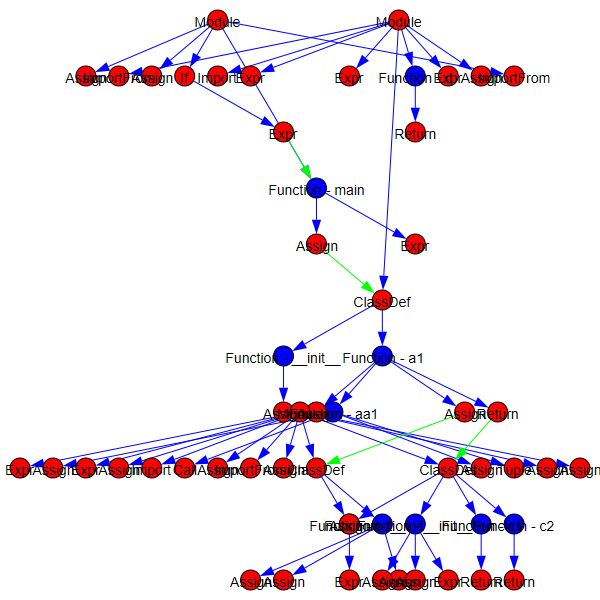
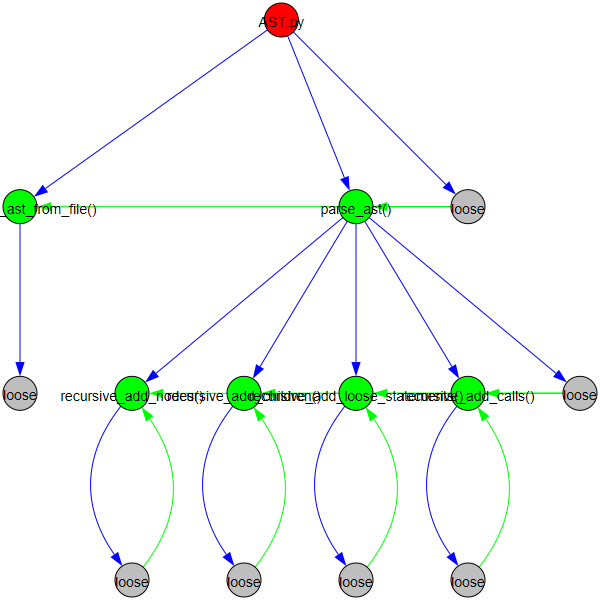
Add Recursive Functions

diff --git a/AST.py b/AST.py
@@ -1,80 +1,9 @@
 import os
 import ast
 import igraph
-from copy import copy 
 
-node_list = list()
+graph = igraph.Graph(directed=True)
 debugfile = open('debug.txt', 'w')
-
-# Redefines functions within the NodeVisitor class to print to file in specific format
-class NodePrinter(ast.NodeVisitor):
-    def __init__(self, output_file):
-        self.output_file = output_file
-
-    def generic_visit(self, node):
-        print('\n', file=self.output_file)
-        print('Type: ' + type(node).__name__, file=self.output_file)
-        print('Address: ' + str(id(node)), file=self.output_file)
-
-        dict_entry = {'Type':type(node).__name__, 'Address':str(id(node))}
-
-        if type(node).__name__ == "Module":
-            print('Location: ' + current_file, file=self.output_file)
-            dict_entry['Location'] = current_file
-
-        if hasattr(node, 'name'):
-            print('Name: ' + str(node.name), file=self.output_file)
-            dict_entry['Name'] = str(node.name)
-
-        if hasattr(node, 'body'):
-            print('Children: ', file=self.output_file)
-            temp_array = list()
-
-            for i in node.body:
-                print(str(id(i)), file=self.output_file)
-                temp_array.append(str(id(i)))
-
-            dict_entry['Children'] = temp_array
-
-        if hasattr(node, 'value') and hasattr(node.value, 'func') and hasattr(node.value.func, 'id'):
-            print('Function: ' + str(node.value.func.id), file=self.output_file)
-            dict_entry['Function'] = str(node.value.func.id)
-
-        if type(node).__name__ == "Expr":
-            if hasattr(node.value.func, "id"):
-                print('Calling: ', file=self.output_file)
-                print(str(node.value.func.id), file=self.output_file)  
-                dict_entry['Calling'] = [str(node.value.func.id)]
-            elif hasattr(node.value.func, "attr"):
-                dict_entry['Attr'] = str(node.value.func.attr)
-
-        if type(node).__name__ == "Import":
-            print('Names: ', file=self.output_file)
-            temp_array = list()
-
-            for i in node.names:
-                print(str(id(i)), file=self.output_file)
-                temp_array.append(str(id(i)))
-
-            dict_entry['Names'] = temp_array
-
-        if type(node).__name__ == "ImportFrom":
-            print('Module: ' + str(node.module), file=self.output_file)
-            dict_entry['Module'] = str(node.module)
-
-            print('Names: ', file=self.output_file)
-            temp_array = list()
-
-            for i in node.names:
-                print(str(id(i)), file=self.output_file)
-                temp_array.append(str(id(i)))
-
-            dict_entry['Names'] = temp_array
-
-        node_list.append(dict_entry)
-
-        super().generic_visit(node)
-
 
 # Opens up a file and parses into an AST object
 def generate_ast_from_file(filename):
@@ -86,186 +15,96 @@ def generate_ast_from_file(filename):
     ast_object = ast.parse(source_code)
     return ast_object
 
+def parse_ast(ast_node, location):
 
-# Opens file in write mode and then starts the AST traversal
-def save_ast(ast_object):
-    NodePrinter(debugfile).visit(ast_object)
+    def recursive_add_nodes(ast_node, location):
+        if str(type(ast_node)) == '<class \'ast.Module\'>':
+            graph.add_vertex(name=(location + '/' + str(type(ast_node))), label=location.split('\\')[-1], color='red')
+        if str(type(ast_node)) == '<class \'ast.FunctionDef\'>':
+            graph.add_vertex(name=(location + '/' + ast_node.name), label=(ast_node.name + '()'), color='green')
+        if str(type(ast_node)) == '<class \'ast.ClassDef\'>':
+            graph.add_vertex(name=(location + '/' + ast_node.name), label=(ast_node.name + '()'), color='yellow')
 
+        if hasattr(ast_node, 'body'):
+            for child in ast_node.body:
+                recursive_add_nodes(child, location)
 
-# Helper Function for tie_up_loose_statements() that combines 2 nodes calling list
-def combine_nodes(ID1, ID2):
-    # Finds specificed nodes
-    for node in node_list:
-        if node['Address'] == ID1:
-            node1 = node
-        elif node['Address'] == ID2:
-            node2 = node
-        
-    # Adds node2's list of calls to node1's calls and then deletes node2
-    if node1 and node2:
-        node1['Type'] = 'Loose Statements'
-        node2['Type'] = 'Loose Statements'
-        if 'Calling' in node1 and 'Calling' in node2:
-            node1['Calling'] += node2['Calling']
-        elif 'Calling' in node2:
-            node1['Calling'] = node2['Calling']
-        node_list.remove(node2)
+    def recursive_add_children(ast_node, location):
+        if hasattr(ast_node, 'body'):
+            for child in ast_node.body:
+                if hasattr(ast_node, 'name') and hasattr(child, 'name'):
+                    graph.add_edge((location + '/' + ast_node.name), (location + '/' + child.name), color='blue')
+                elif hasattr(child, 'name'):
+                    graph.add_edge((location + '/' + str(type(ast_node))), (location + '/' + child.name), color='blue')  
+                
+                recursive_add_children(child, location)
 
+    def recursive_add_loose_statements(ast_node, location):
+        if str(type(ast_node)) == '<class \'ast.FunctionDef\'>' or str(type(ast_node)) == '<class \'ast.ClassDef\'>' or str(type(ast_node)) == '<class \'ast.Module\'>':
+            for child in ast_node.body:
+                if str(type(child)) != '<class \'ast.FunctionDef\'>' or str(type(child)) != '<class \'ast.ClassDef\'>' or str(type(child)) != '<class \'ast.Module\'>':
+                    if str(type(ast_node)) == '<class \'ast.Module\'>':
+                        graph.add_vertex(name=(location + '/' + str(type(ast_node)) + 'loose'), label='loose', color='grey')
+                        graph.add_edge((location + '/' + str(type(ast_node))), (location + '/' + str(type(ast_node)) + 'loose'), color='blue')
+                    elif str(type(ast_node)) == '<class \'ast.FunctionDef\'>' or str(type(ast_node)) == '<class \'ast.ClassDef\'>':
+                        graph.add_vertex(name=(location + '/' + ast_node.name + 'loose'), label='loose', color='grey')
+                        graph.add_edge((location + '/' + ast_node.name), (location + '/' + ast_node.name + 'loose'), color='blue')
+                    break
+            
+            for child in ast_node.body:
+                recursive_add_loose_statements(child, location)
 
-# Modifies the node_list so that every node with Expr will have a Loose Statement instead
-def tie_up_loose_statements():
-    # Go through node_list looking for nodes with children
-    for node in node_list:
-        if 'Children' in node:
-            # Once a node with children is found collect the children that are Expr
-            loose_expressions = list()
-            for child in node['Children']:
-                if child[1] == 'Expr':
-                    loose_expressions.append(child)
-            # Once a node with children is found delete the children that are Expr (Have to do this in a seperate step since traversal gets mess up if deleting elements while traversing)
-            for child in reversed(node['Children']):
-                if child[1] == 'Expr':
-                    node['Children'].remove(child)
+    def recursive_add_calls(ast_node, location, parent):
+        if hasattr(ast_node, 'value') and hasattr(ast_node.value, 'func') and hasattr(ast_node.value.func, 'id') and (location + '/' + ast_node.value.func.id in graph.vs._name_index):
+            if str(type(ast_node)) == '<class \'ast.Module\'>':
+                graph.add_edge((location + '/' + str(type(ast_node))), (location + '/' + ast_node.value.func.id), color='green')
+            elif (str(type(ast_node)) == '<class \'ast.FunctionDef\'>' or str(type(ast_node)) == '<class \'ast.ClassDef\'>'):
+                graph.add_edge((location + '/' + ast_node.name), (location + '/' + ast_node.value.func.id), color='green')
+            else:
+                graph.add_edge((location + '/' + parent + 'loose'), (location + '/' + ast_node.value.func.id), color='green')
 
-            # Combine the Expr into one
-            count = len(loose_expressions)    
-            while count > 1:
-                combine_nodes(loose_expressions[0][0], loose_expressions[count-1][0])
-                count = count - 1
+        if hasattr(ast_node, 'body'):
+            for child in ast_node.body:
+                if str(type(ast_node)) == '<class \'ast.Module\'>':
+                    recursive_add_calls(child, location, str(type(ast_node)))
+                elif str(type(ast_node)) == '<class \'ast.FunctionDef\'>' or str(type(ast_node)) == '<class \'ast.ClassDef\'>':
+                    recursive_add_calls(child, location, ast_node.name)
+                else:
+                    recursive_add_calls(child, location, parent)
 
-            # Rename the combined Expr to Loose Statements and add back to the parent's children
-            if len(loose_expressions) > 0:
-                loose_expressions[0][1] = 'Loose Statements'
-                node['Children'].append(loose_expressions[0])
+    recursive_add_nodes(ast_node, location)
+    recursive_add_children(ast_node, location)
+    recursive_add_loose_statements(ast_node, location)
+    recursive_add_calls(ast_node, location, '')
 
-
-# Helper Function for link_modules() that returns the address of a def node
-def get_def_address(alias, node):
-    if 'Name' in node.keys() and node['Name'] in alias:
-        return node['Address']
-    elif 'Children' in node.keys():
-        #address = None
-        for child in node['Children']:
-            for index in node_list:
-                if index['Address'] == child:
-                    address = get_def_address(alias, index)
-                    if address != None:
-                        return address
-    else:
-        return None
-
-
-# Utilizes import statements to connect modules
-def link_modules():
-    for index0 in range(len(node_list)):
-        # # Gets the current module address
-        # current_module_address = str()
-        # if index0['Type'] == 'Module':
-        #     current_module_address = index0['Address']
-
-        # Links nodes within the ImportFrom
-        if node_list[index0]['Type'] == 'ImportFrom':
-
-            # Finds the aliases of the definitions being imported
-            alias_list = list()
-            for index1 in node_list:
-                if index1['Type'] == 'alias' and index1['Address'] in node_list[index0]['Names']:
-                    alias_list.append(index1['Name'])
-
-            # Finds the node which is being imported
-            source = node_list[index0]['Module']
-            source = source.replace('.', '\\')
-            source = source + '.py'
-            source_address_list = list()
-            for index1 in node_list:
-                if index1['Type'] == 'Module' and index1['Location'][-len(source):] == source:
-                    for alias in alias_list:
-                        #source_address_list.append(get_def_address(alias, index1))
-                    
-                        # Finds nodes that are calling the imported def
-                        index0_copy = index0
-                        while node_list[index0_copy]['Type'] != 'Module':
-
-                            if 'Function' in node_list[index0_copy] and node_list[index0_copy]['Function'] == alias:
-                                if 'Calling' in node_list[index0_copy]:
-                                    node_list[index0_copy]['Calling'].append(get_def_address(alias, index1))
-                                else:
-                                    node_list[index0_copy]['Calling'] = [get_def_address(alias, index1)]
-
-                            if index0_copy >= (len(node_list) - 1):
-                                break
-                            index0_copy += 1
-
-
-# Traverses through node list and adds each node to the graph
-def add_nodes(graph):
-    for index in node_list:
-        if index['Type'] == 'FunctionDef':
-            graph.add_vertex(name=index['Address'], label='Function - ' + index['Name'], color='blue')
-        else:
-            graph.add_vertex(name=index['Address'], label=index['Type'])
-
-
-# Traverses through node list and adds each edge relationship to the graph
-def add_edges(graph):
-
-    # Children relationships
-    for index in node_list:
-        if 'Children' in index:
-            for child in index['Children']:
-                graph.add_edge(index['Address'], child, color='blue')
-
-    # Calling relationships
-    for index in node_list:
-        if 'Calling' in index:
-            for call in index['Calling']:
-                for sIndex in node_list:
-                    if 'Name' in sIndex and sIndex['Name'] == call:
-                        graph.add_edge(index['Address'], sIndex['Address'], color='green')
-                    if 'Address' in sIndex and sIndex['Address'] == call:
-                        graph.add_edge(index['Address'], sIndex['Address'], color='green')
-
-
-# Reads file and generates graph from file
-def visualize_ast():
-    newGraph = igraph.Graph(directed=True)
+# Input name of folder here, folder must be in res
+# current_file = str()
+# folder_name = "data"
+# path = os.getcwd() + "\\" + folder_name
+# for filename in os.listdir(path):
+#     # Check for python file extensions
+#     if filename.endswith('.py'):  
+#         current_file = os.path.join(path, filename)
+#         # Generates AST then writes AST to file and object
+#         print(generate_ast_from_file(current_file))
     
-    # Collects Expr and puts them together
-    tie_up_loose_statements()
+ast_object = generate_ast_from_file("AST.py")
+parse_ast(ast_object, os.getcwd() + "\\" + "AST.py")
 
-    # Links Modules together
-    link_modules()
+# Deletes the vertices with degree 0
+graph.delete_vertices([v.index for v in graph.vs if graph.degree()[v.index] == 0])
+# Deletes self-loop edges
+graph.simplify(multiple=False, loops=True)
 
-    add_nodes(newGraph)
-    add_edges(newGraph)
-
-    # Deletes the vertices with degree 0
-    newGraph.delete_vertices([v.index for v in newGraph.vs if newGraph.degree()[v.index] == 0])
-    # Deletes self-loop edges
-    newGraph.simplify(multiple=False, loops=True)
-
+# Visualize the AST
 
     # My favorite layouts
     #igraph.plot(newGraph, 'AST.png', layout='reingold_tilford', vertex_label_size=14, vertex_size=34)
-    igraph.plot(newGraph, 'AST.png', layout='sugiyama')
+    #igraph.plot(newGraph, 'AST.png', layout='sugiyama')
     #igraph.plot(newGraph, 'AST.png', vertex_label_size=14, vertex_size=34)
     #igraph.plot(newGraph, 'AST.png', layout='davidson_harel')
     #igraph.plot(newGraph, 'AST.png', layout='fruchterman_reingold')
 
-
-# Input name of folder here, folder must be in res
-current_file = str()
-ast_object = list()
-folder_name = "data"
-path = os.getcwd() + "\\" + folder_name
-for filename in os.listdir(path):
-    # Check for python file extensions
-    if filename.endswith('.py'):  
-        current_file = os.path.join(path, filename)
-        # Generates AST then writes AST to file and object
-        save_ast(generate_ast_from_file(current_file))
-
-
-# Visualize the AST
-visualize_ast()
+igraph.plot(graph, 'AST.png', layout='reingold_tilford', vertex_label_size=14, vertex_size=34)
+#igraph.plot(graph, 'AST.png', vertex_label_size=14, vertex_size=34)
 debugfile.close()

diff --git a/data/test1.py b/data/test1.py
@@ -4,8 +4,9 @@ X_VALUE, Y_VALUE = 100, 1000
 
 
 def main():
-    a_instance = A(2)
-    print(a_instance.a1(X_VALUE, Y_VALUE, Z_VALUE))
+    #a_instance = A(2)
+    #print(a_instance.a1(X_VALUE, Y_VALUE, Z_VALUE))
+    print('hi')
 
 
 Z_VALUE = 10000

diff --git a/README.md b/README.md
@@ -11,4 +11,20 @@ pip install pycairo
 ## TODO
 * Add Labels to Nodes
 * Improve the Format of the Graph (Coloring and Placement of Nodes)
+    Modules Nodes
+    Classes
+    Functions
+        Async
+        Non-Async
+    Loose Statements
+
+    Edge
+        Children
+        Calling
+        Return
+    
+    Add feature where you can toggle off certain types of edges or nodes
+
+
 * Add Tests
+* Optimize code
